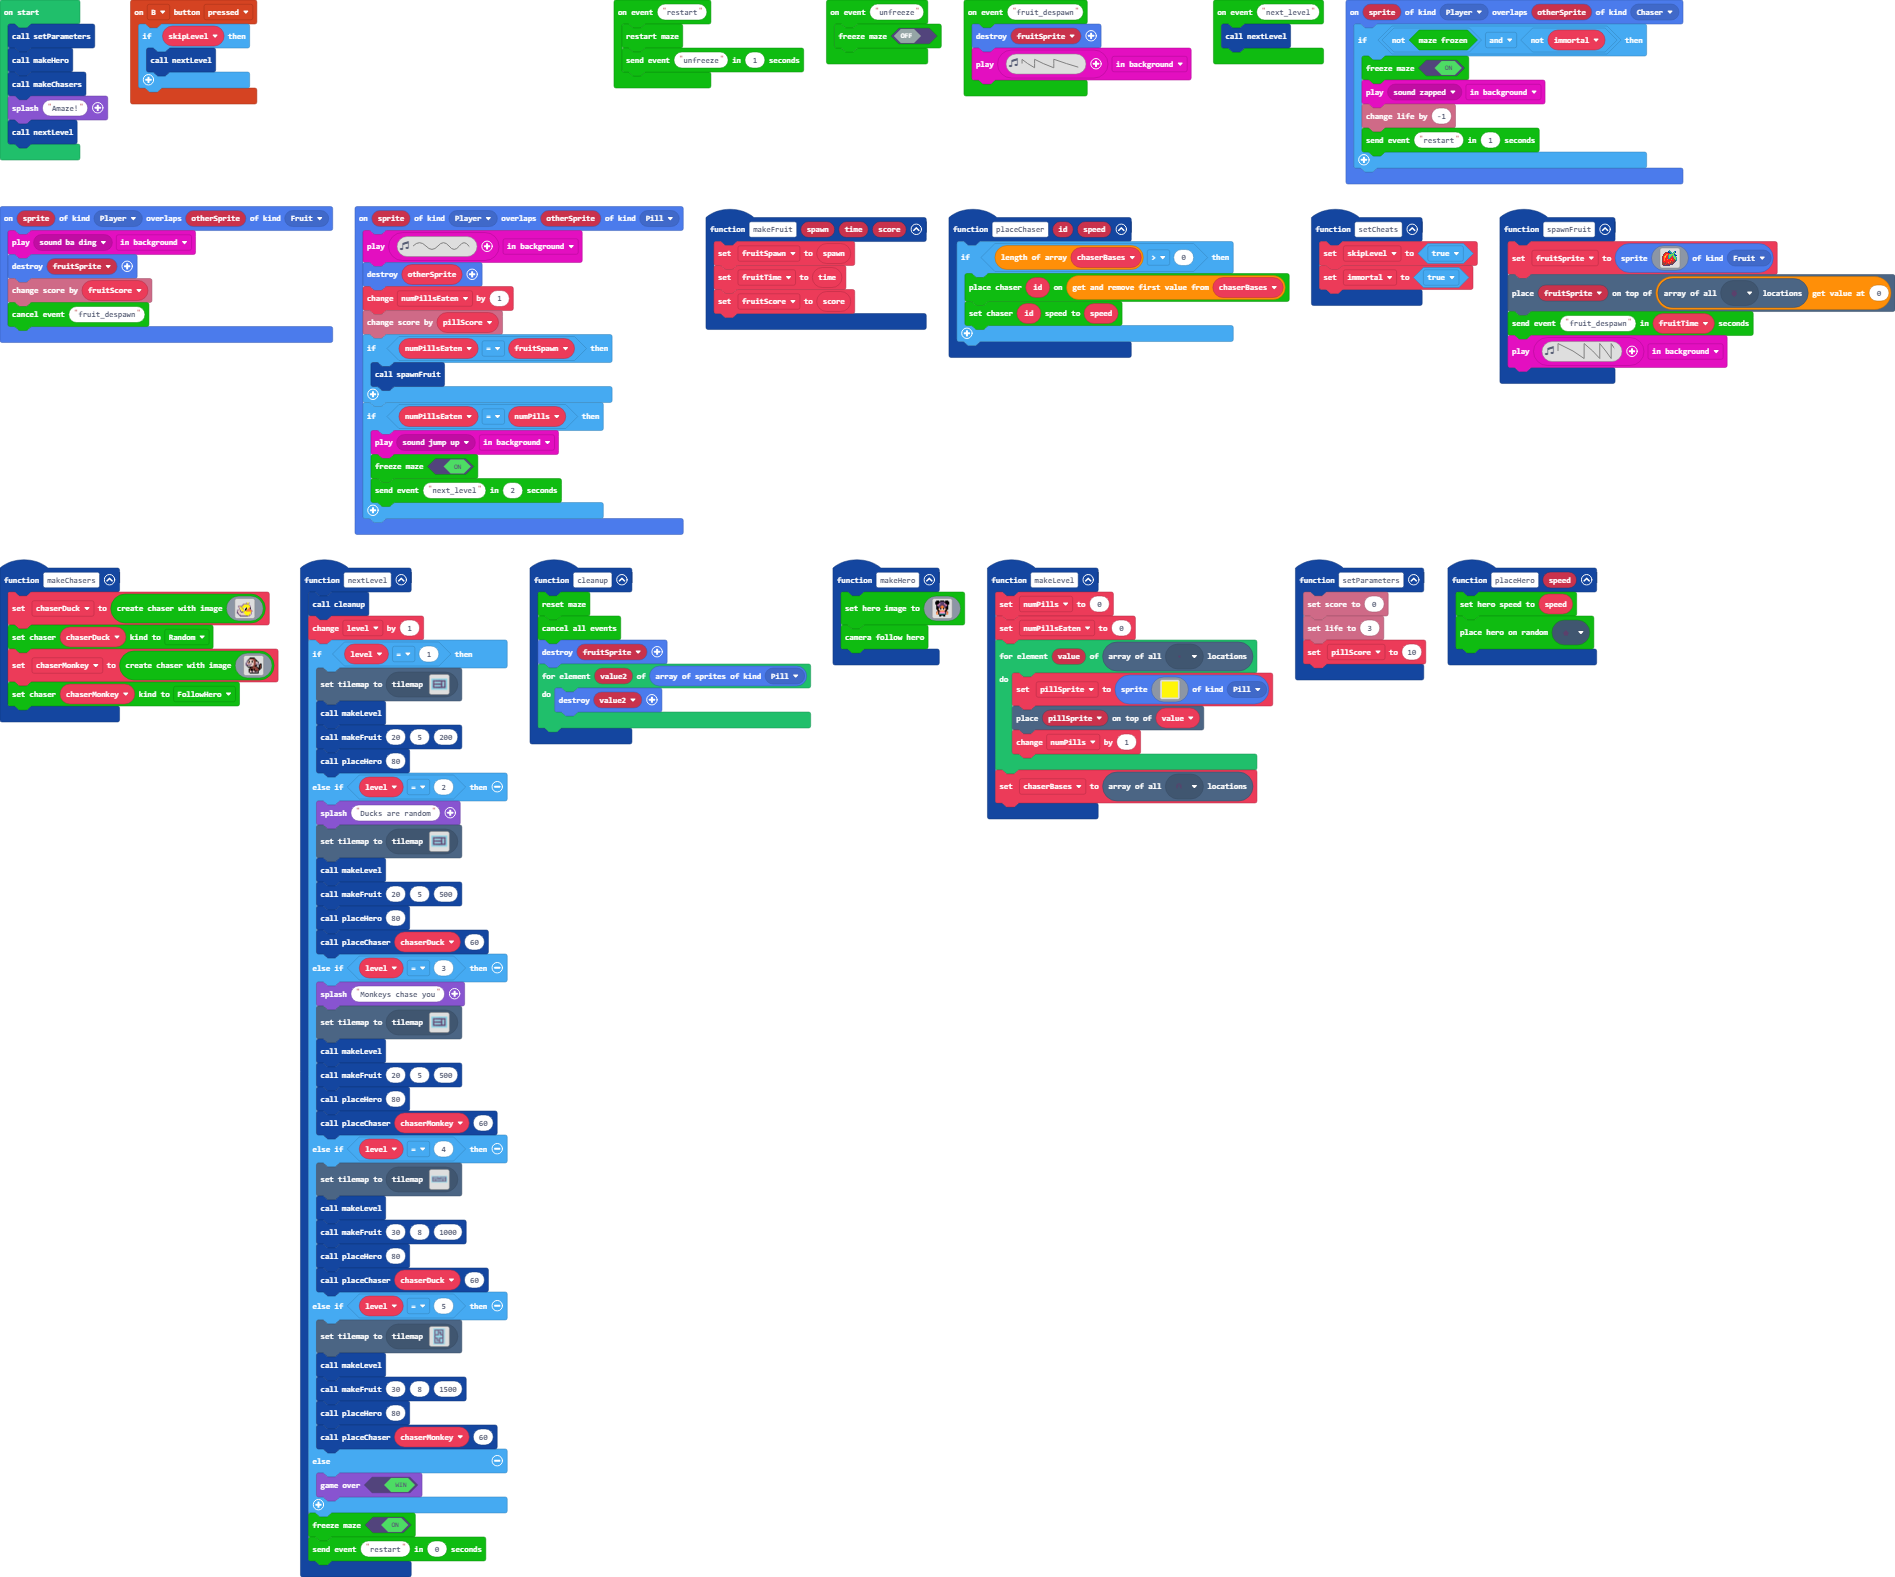
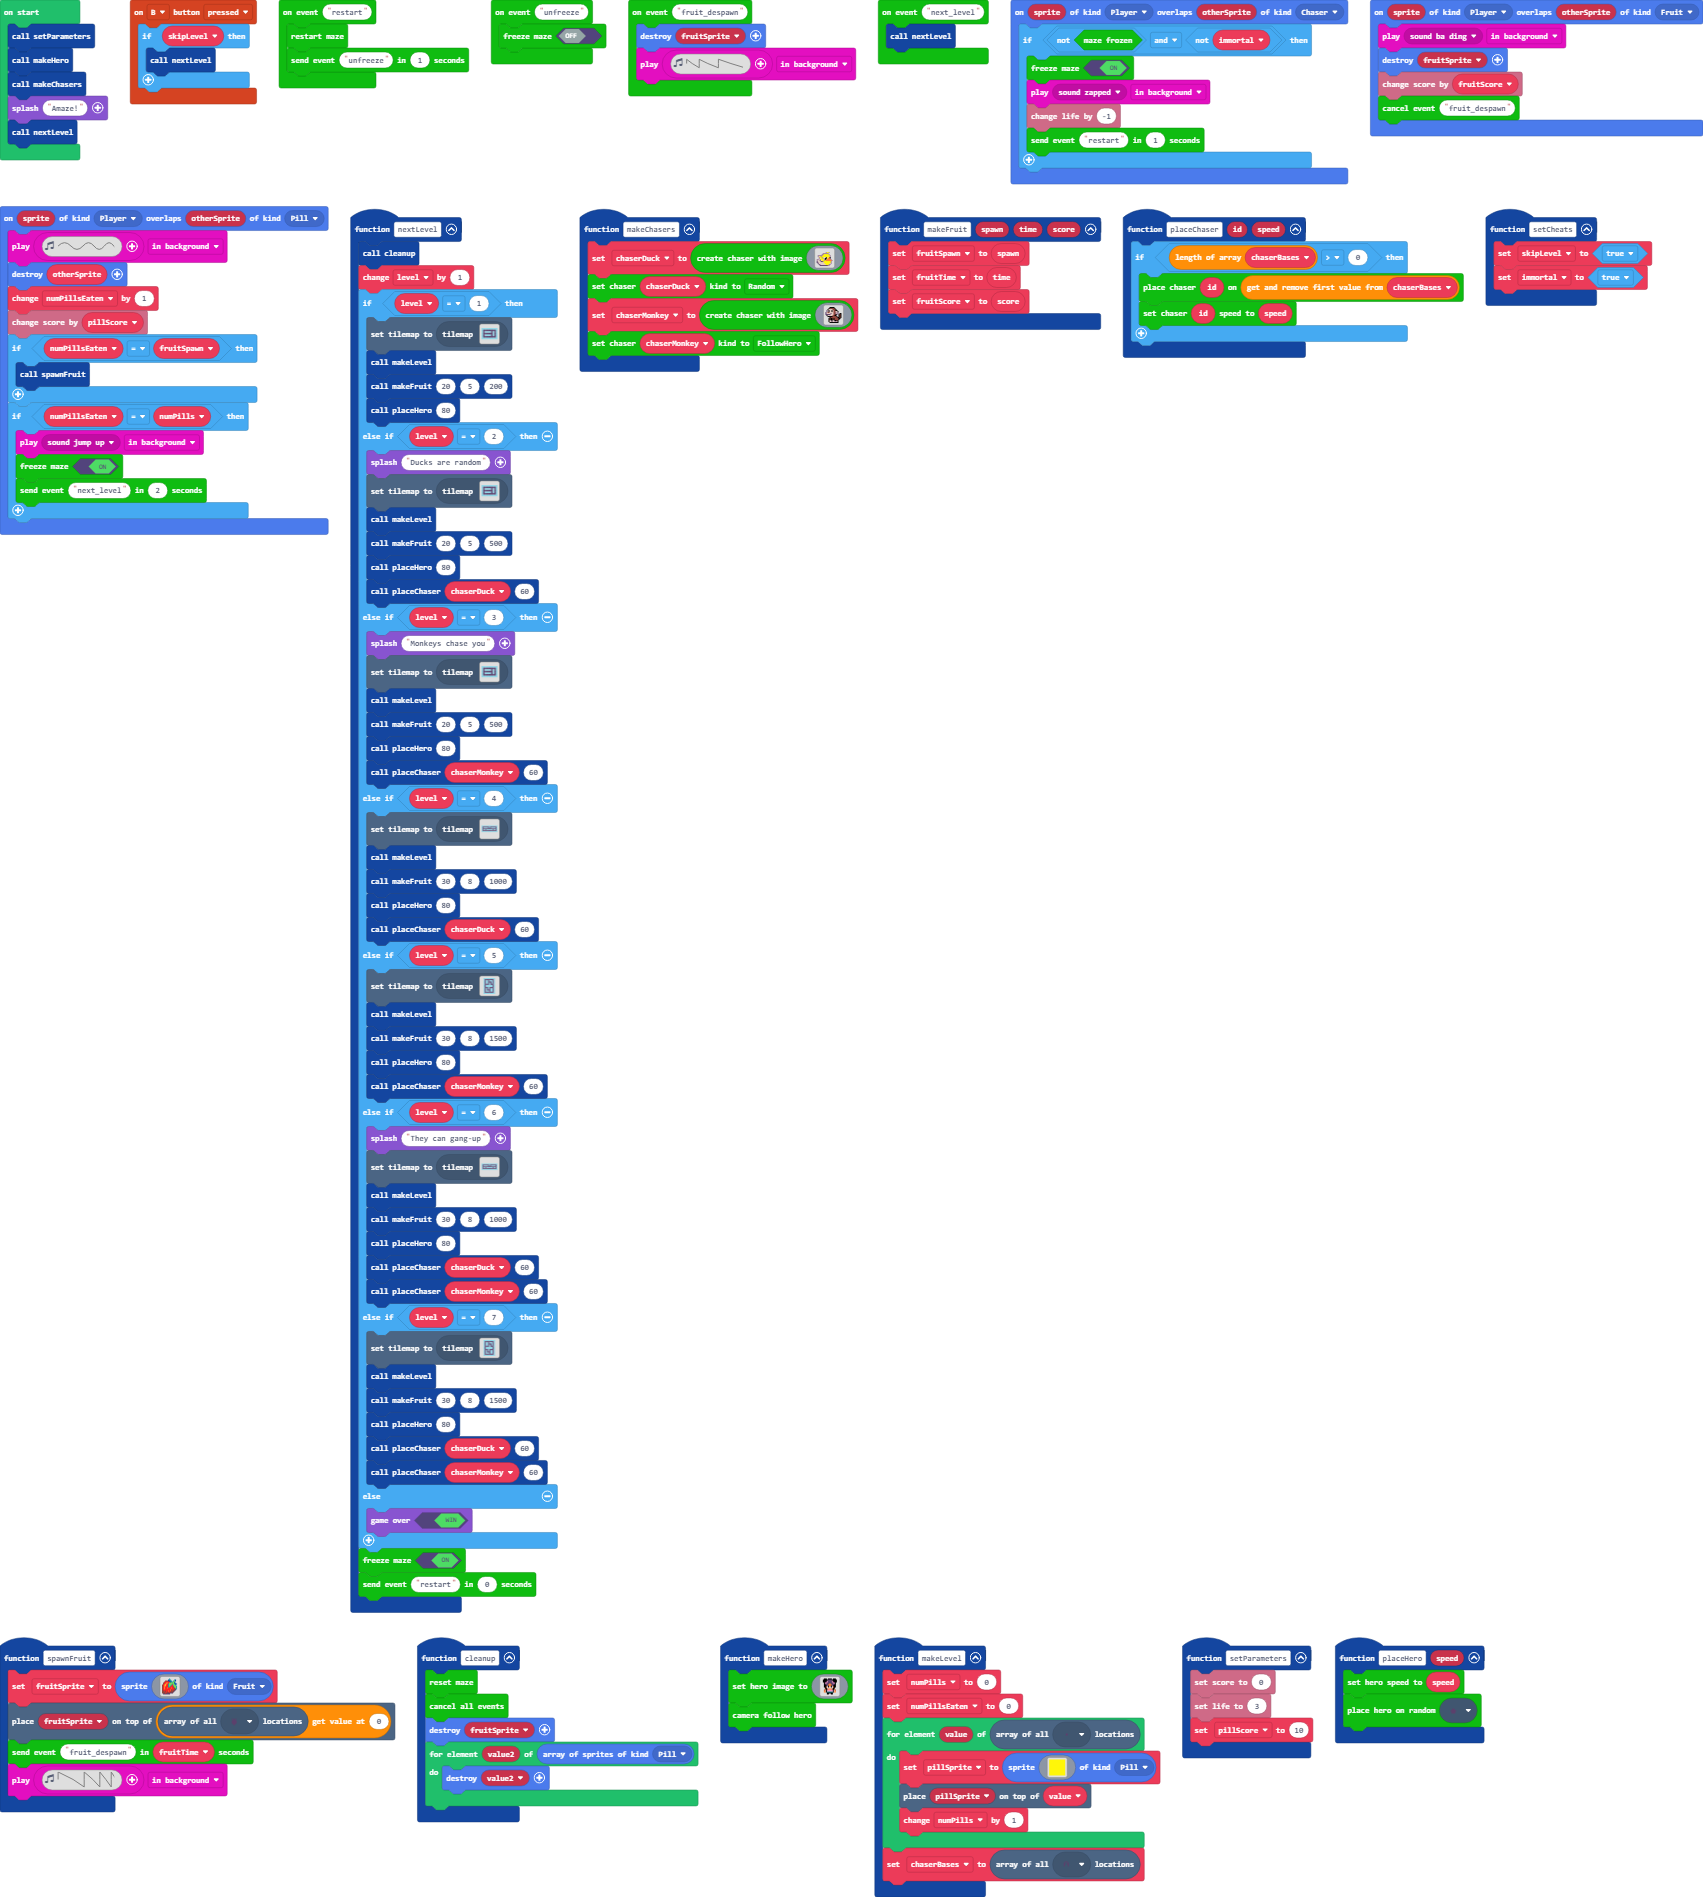
Levels 2/3 now support 2 chasers

diff --git a/tilemap.g.ts b/tilemap.g.ts
@@ -196,16 +196,6 @@ namespace myTiles {
 . . . . . . . . . . . . . . . . 
 . . . . . . . . . . . . . . . . 
 `, [myTiles.transparency16], TileScale.Sixteen);
-            case "level10":
-            case "level10":return tiles.createTilemap(hex`110007000404040404040404040404040404040404040101010101010104030101010101050404010404040404010401040404040401040401010101010101010101010101010104040104040104040404040404010404010404020101010101010101010101010101040404040404040404040404040404040404`, img`
-2 2 2 2 2 2 2 2 2 2 2 2 2 2 2 2 2 
-2 . . . . . . . 2 . . . . . . . 2 
-2 . 2 2 2 2 2 . 2 . 2 2 2 2 2 . 2 
-2 . . . . . . . . . . . . . . . 2 
-2 . 2 2 . 2 2 2 2 2 2 2 . 2 2 . 2 
-2 . . . . . . . . . . . . . . . 2 
-2 2 2 2 2 2 2 2 2 2 2 2 2 2 2 2 2 
-`, [myTiles.transparency16,myTiles.tile2,myTiles.tile3,myTiles.tile4,myTiles.tile1,myTiles.tile5], TileScale.Sixteen);
             case "level13":
             case "level13":return tiles.createTilemap(hex`1000100000000000000000000000000000000000000000000000000000000000000000000000000000000000000000000000000000000000000000000000000000000000000000000000000000000000000000000000000000000000000000000000000000000000000000000000000000000000000000000000000000000000000000000000000000000000000000000000000000000000000000000000000000000000000000000000000000000000000000000000000000000000000000000000000000000000000000000000000000000000000000000000000000000000000000000000000000000000000000000000000000000000000000000000000000000000`, img`
 . . . . . . . . . . . . . . . . 
@@ -225,23 +215,6 @@ namespace myTiles {
 . . . . . . . . . . . . . . . . 
 . . . . . . . . . . . . . . . . 
 `, [myTiles.transparency16], TileScale.Sixteen);
-            case "level7":
[1 lines of base64/hex data omitted]
-2 2 2 2 2 2 2 2 2 2 
-2 . . . . . . . . 2 
-2 . 2 2 . 2 2 2 . 2 
-2 . 2 2 . . . 2 . 2 
-2 . 2 2 . 2 . 2 . 2 
-2 . . . . 2 . . . 2 
-2 . 2 2 2 2 2 2 . 2 
-2 . 2 2 2 2 2 2 . 2 
-2 . . . 2 . . . . 2 
-2 . 2 . 2 . 2 2 . 2 
-2 . 2 . . . 2 2 . 2 
-2 . 2 2 2 . 2 2 . 2 
-2 . . . . . . . . 2 
-2 2 2 2 2 2 2 2 2 2 
-`, [myTiles.transparency16,myTiles.tile2,myTiles.tile3,myTiles.tile4,myTiles.tile1,myTiles.tile5], TileScale.Sixteen);
             case "level14":
             case "level14":return tiles.createTilemap(hex`1000100000000000000000000000000000000000000000000000000000000000000000000000000000000000000000000000000000000000000000000000000000000000000000000000000000000000000000000000000000000000000000000000000000000000000000000000000000000000000000000000000000000000000000000000000000000000000000000000000000000000000000000000000000000000000000000000000000000000000000000000000000000000000000000000000000000000000000000000000000000000000000000000000000000000000000000000000000000000000000000000000000000000000000000000000000000000`, img`
 . . . . . . . . . . . . . . . . 
@@ -565,6 +538,33 @@ namespace myTiles {
 . . . . . . . . . . . . . . . . 
 . . . . . . . . . . . . . . . . 
 `, [myTiles.transparency16], TileScale.Sixteen);
+            case "level10":
+            case "level10":return tiles.createTilemap(hex`110007000404040404040404040404040404040404040101010101010104030101010101050404010404040404010401040404040401040401010101010101010101010101010104040104040104040404040404010404010404020101010101010101010101010105040404040404040404040404040404040404`, img`
+2 2 2 2 2 2 2 2 2 2 2 2 2 2 2 2 2 
+2 . . . . . . . 2 . . . . . . . 2 
+2 . 2 2 2 2 2 . 2 . 2 2 2 2 2 . 2 
+2 . . . . . . . . . . . . . . . 2 
+2 . 2 2 . 2 2 2 2 2 2 2 . 2 2 . 2 
+2 . . . . . . . . . . . . . . . 2 
+2 2 2 2 2 2 2 2 2 2 2 2 2 2 2 2 2 
+`, [myTiles.transparency16,myTiles.tile2,myTiles.tile3,myTiles.tile4,myTiles.tile1,myTiles.tile5], TileScale.Sixteen);
+            case "level7":
[1 lines of base64/hex data omitted]
+2 2 2 2 2 2 2 2 2 2 
+2 . . . . . . . . 2 
+2 . 2 2 . 2 2 2 . 2 
+2 . 2 2 . . . 2 . 2 
+2 . 2 2 . 2 . 2 . 2 
+2 . . . . 2 . . . 2 
+2 . 2 2 2 2 2 2 . 2 
+2 . 2 2 2 2 2 2 . 2 
+2 . . . 2 . . . . 2 
+2 . 2 . 2 . 2 2 . 2 
+2 . 2 . . . 2 2 . 2 
+2 . 2 2 2 . 2 2 . 2 
+2 . . . . . . . . 2 
+2 2 2 2 2 2 2 2 2 2 
+`, [myTiles.transparency16,myTiles.tile2,myTiles.tile3,myTiles.tile4,myTiles.tile1,myTiles.tile5], TileScale.Sixteen);
         }
         return null;
     })

diff --git a/main.ts b/main.ts
@@ -178,6 +178,21 @@ function nextLevel () {
         makeFruit(30, 8, 1500)
         placeHero(80)
         placeChaser(chaserMonkey, 60)
+    } else if (level == 6) {
+        game.splash("They can gang-up")
+        tiles.setCurrentTilemap(tilemap`level10`)
+        makeLevel()
+        makeFruit(30, 8, 1000)
+        placeHero(80)
+        placeChaser(chaserDuck, 60)
+        placeChaser(chaserMonkey, 60)
+    } else if (level == 7) {
+        tiles.setCurrentTilemap(tilemap`level7`)
+        makeLevel()
+        makeFruit(30, 8, 1500)
+        placeHero(80)
+        placeChaser(chaserDuck, 60)
+        placeChaser(chaserMonkey, 60)
     } else {
         game.gameOver(true)
     }
